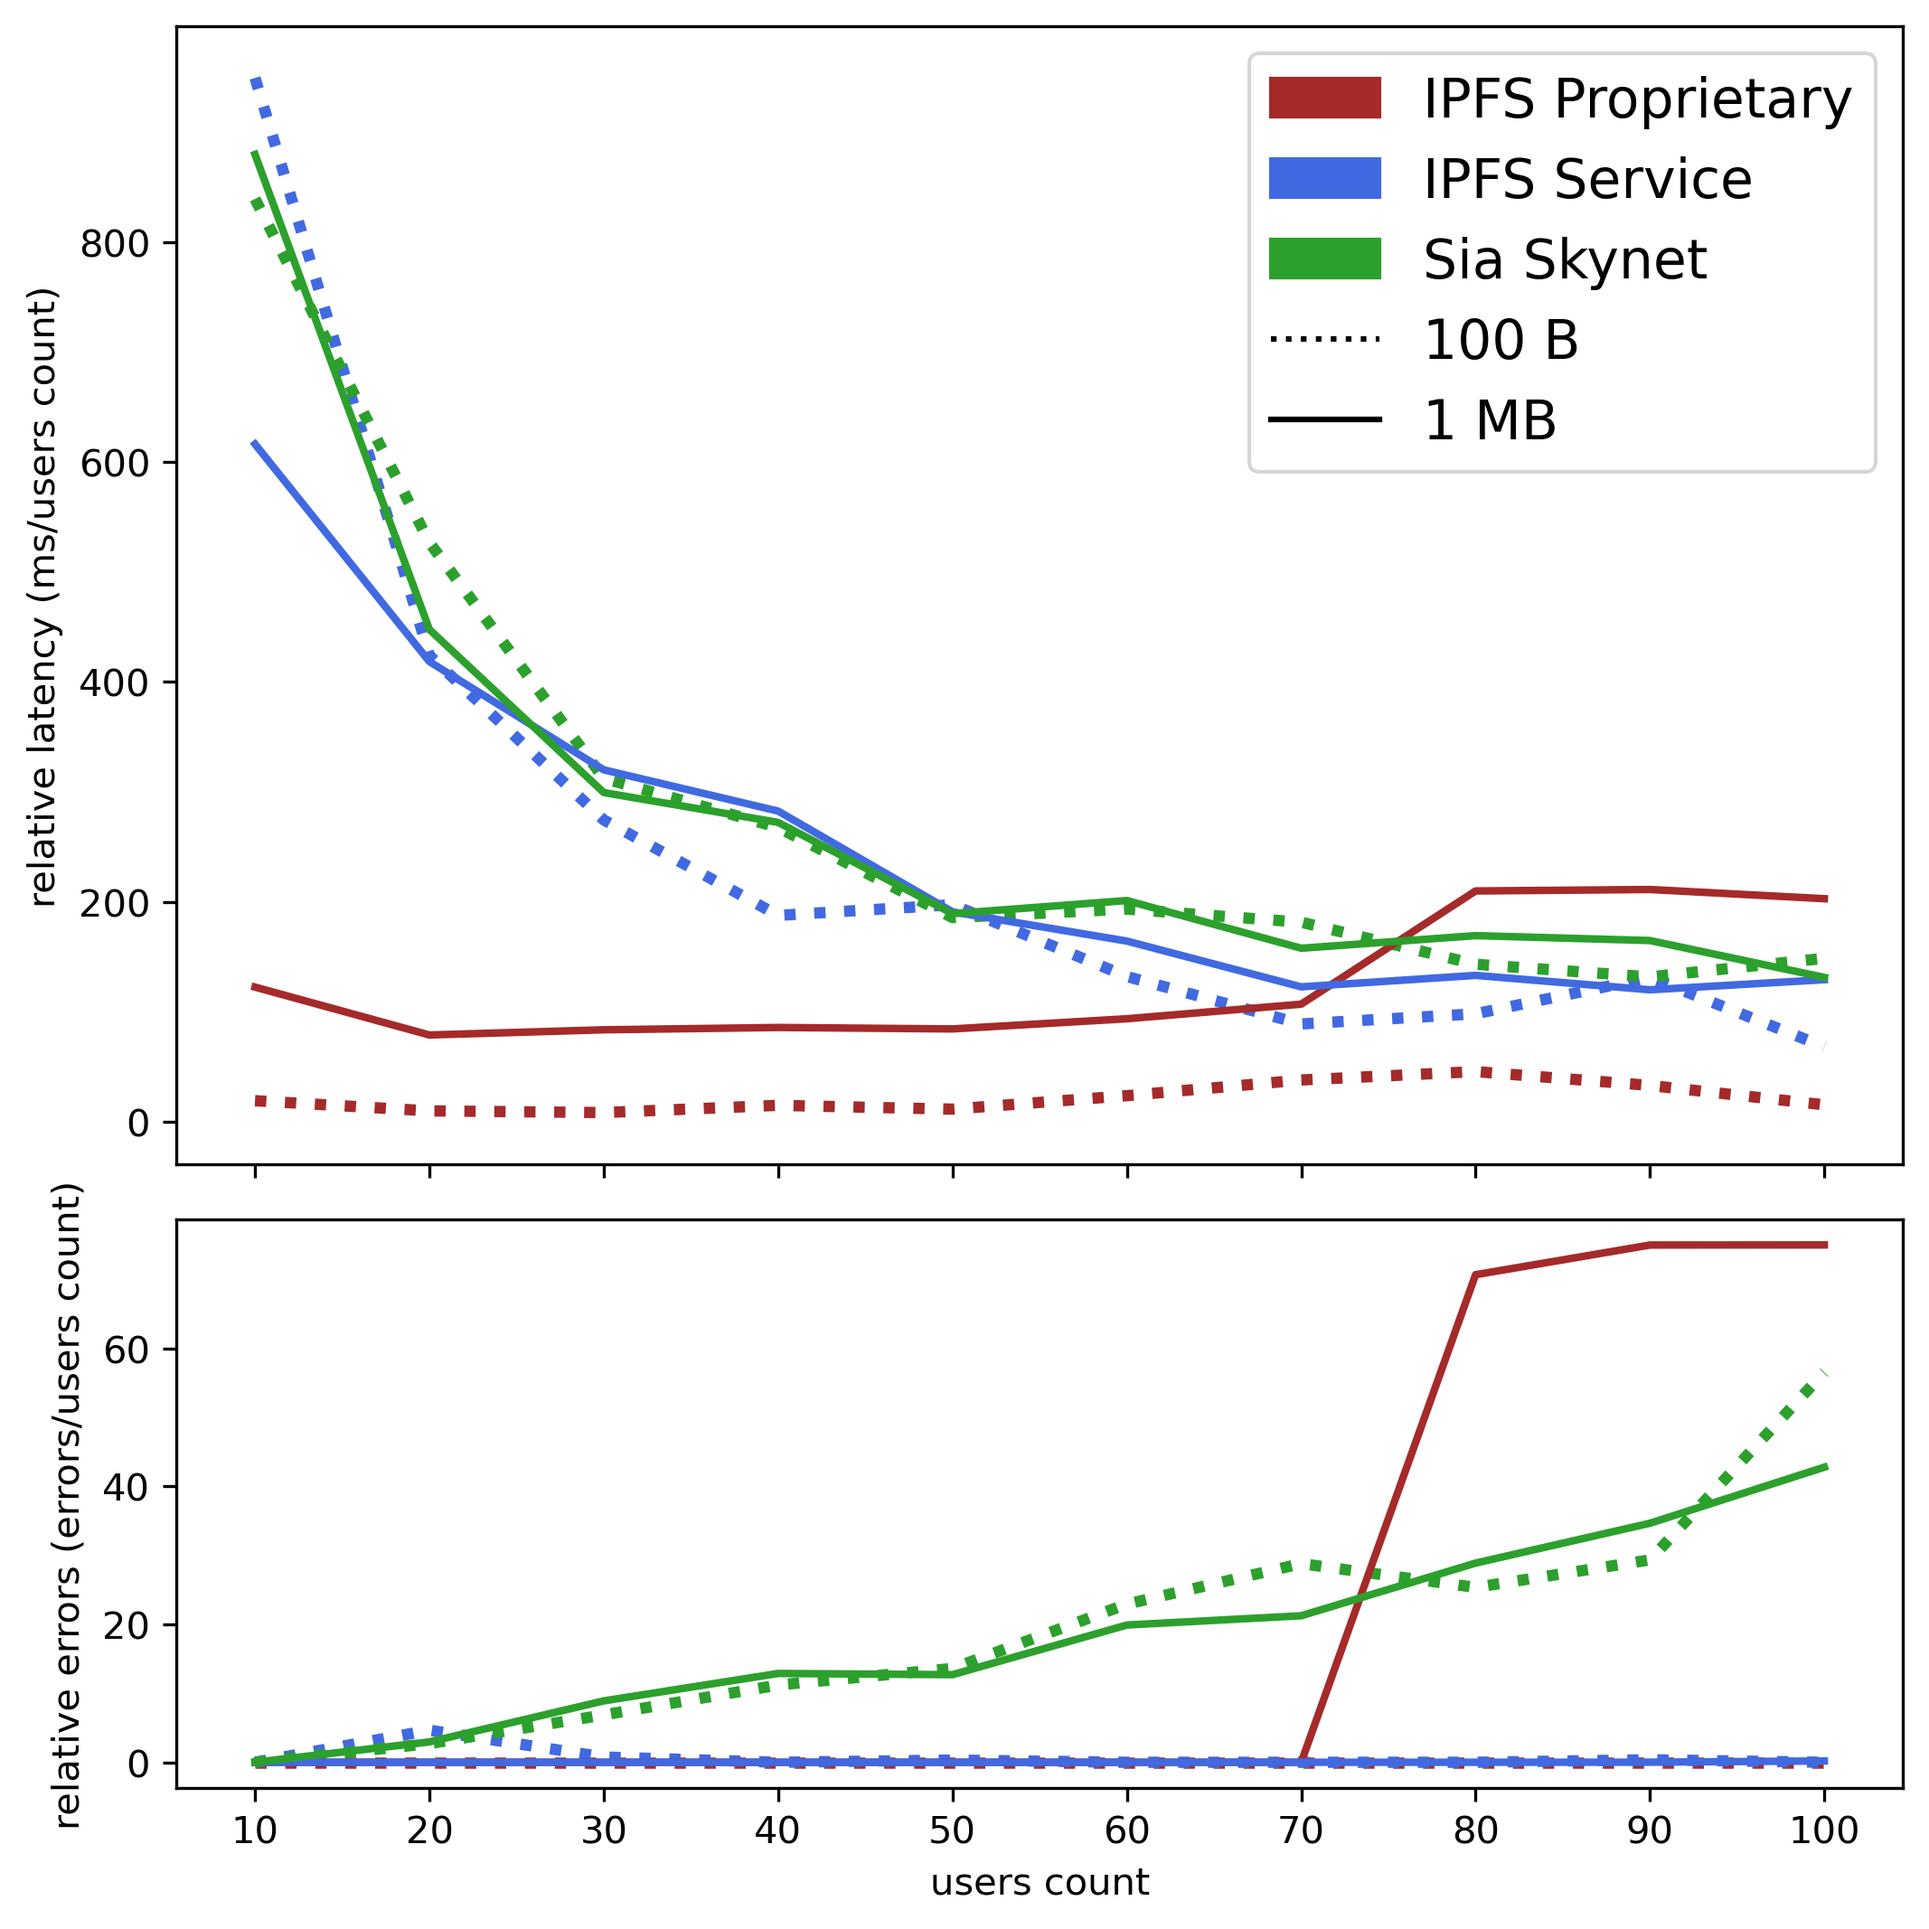
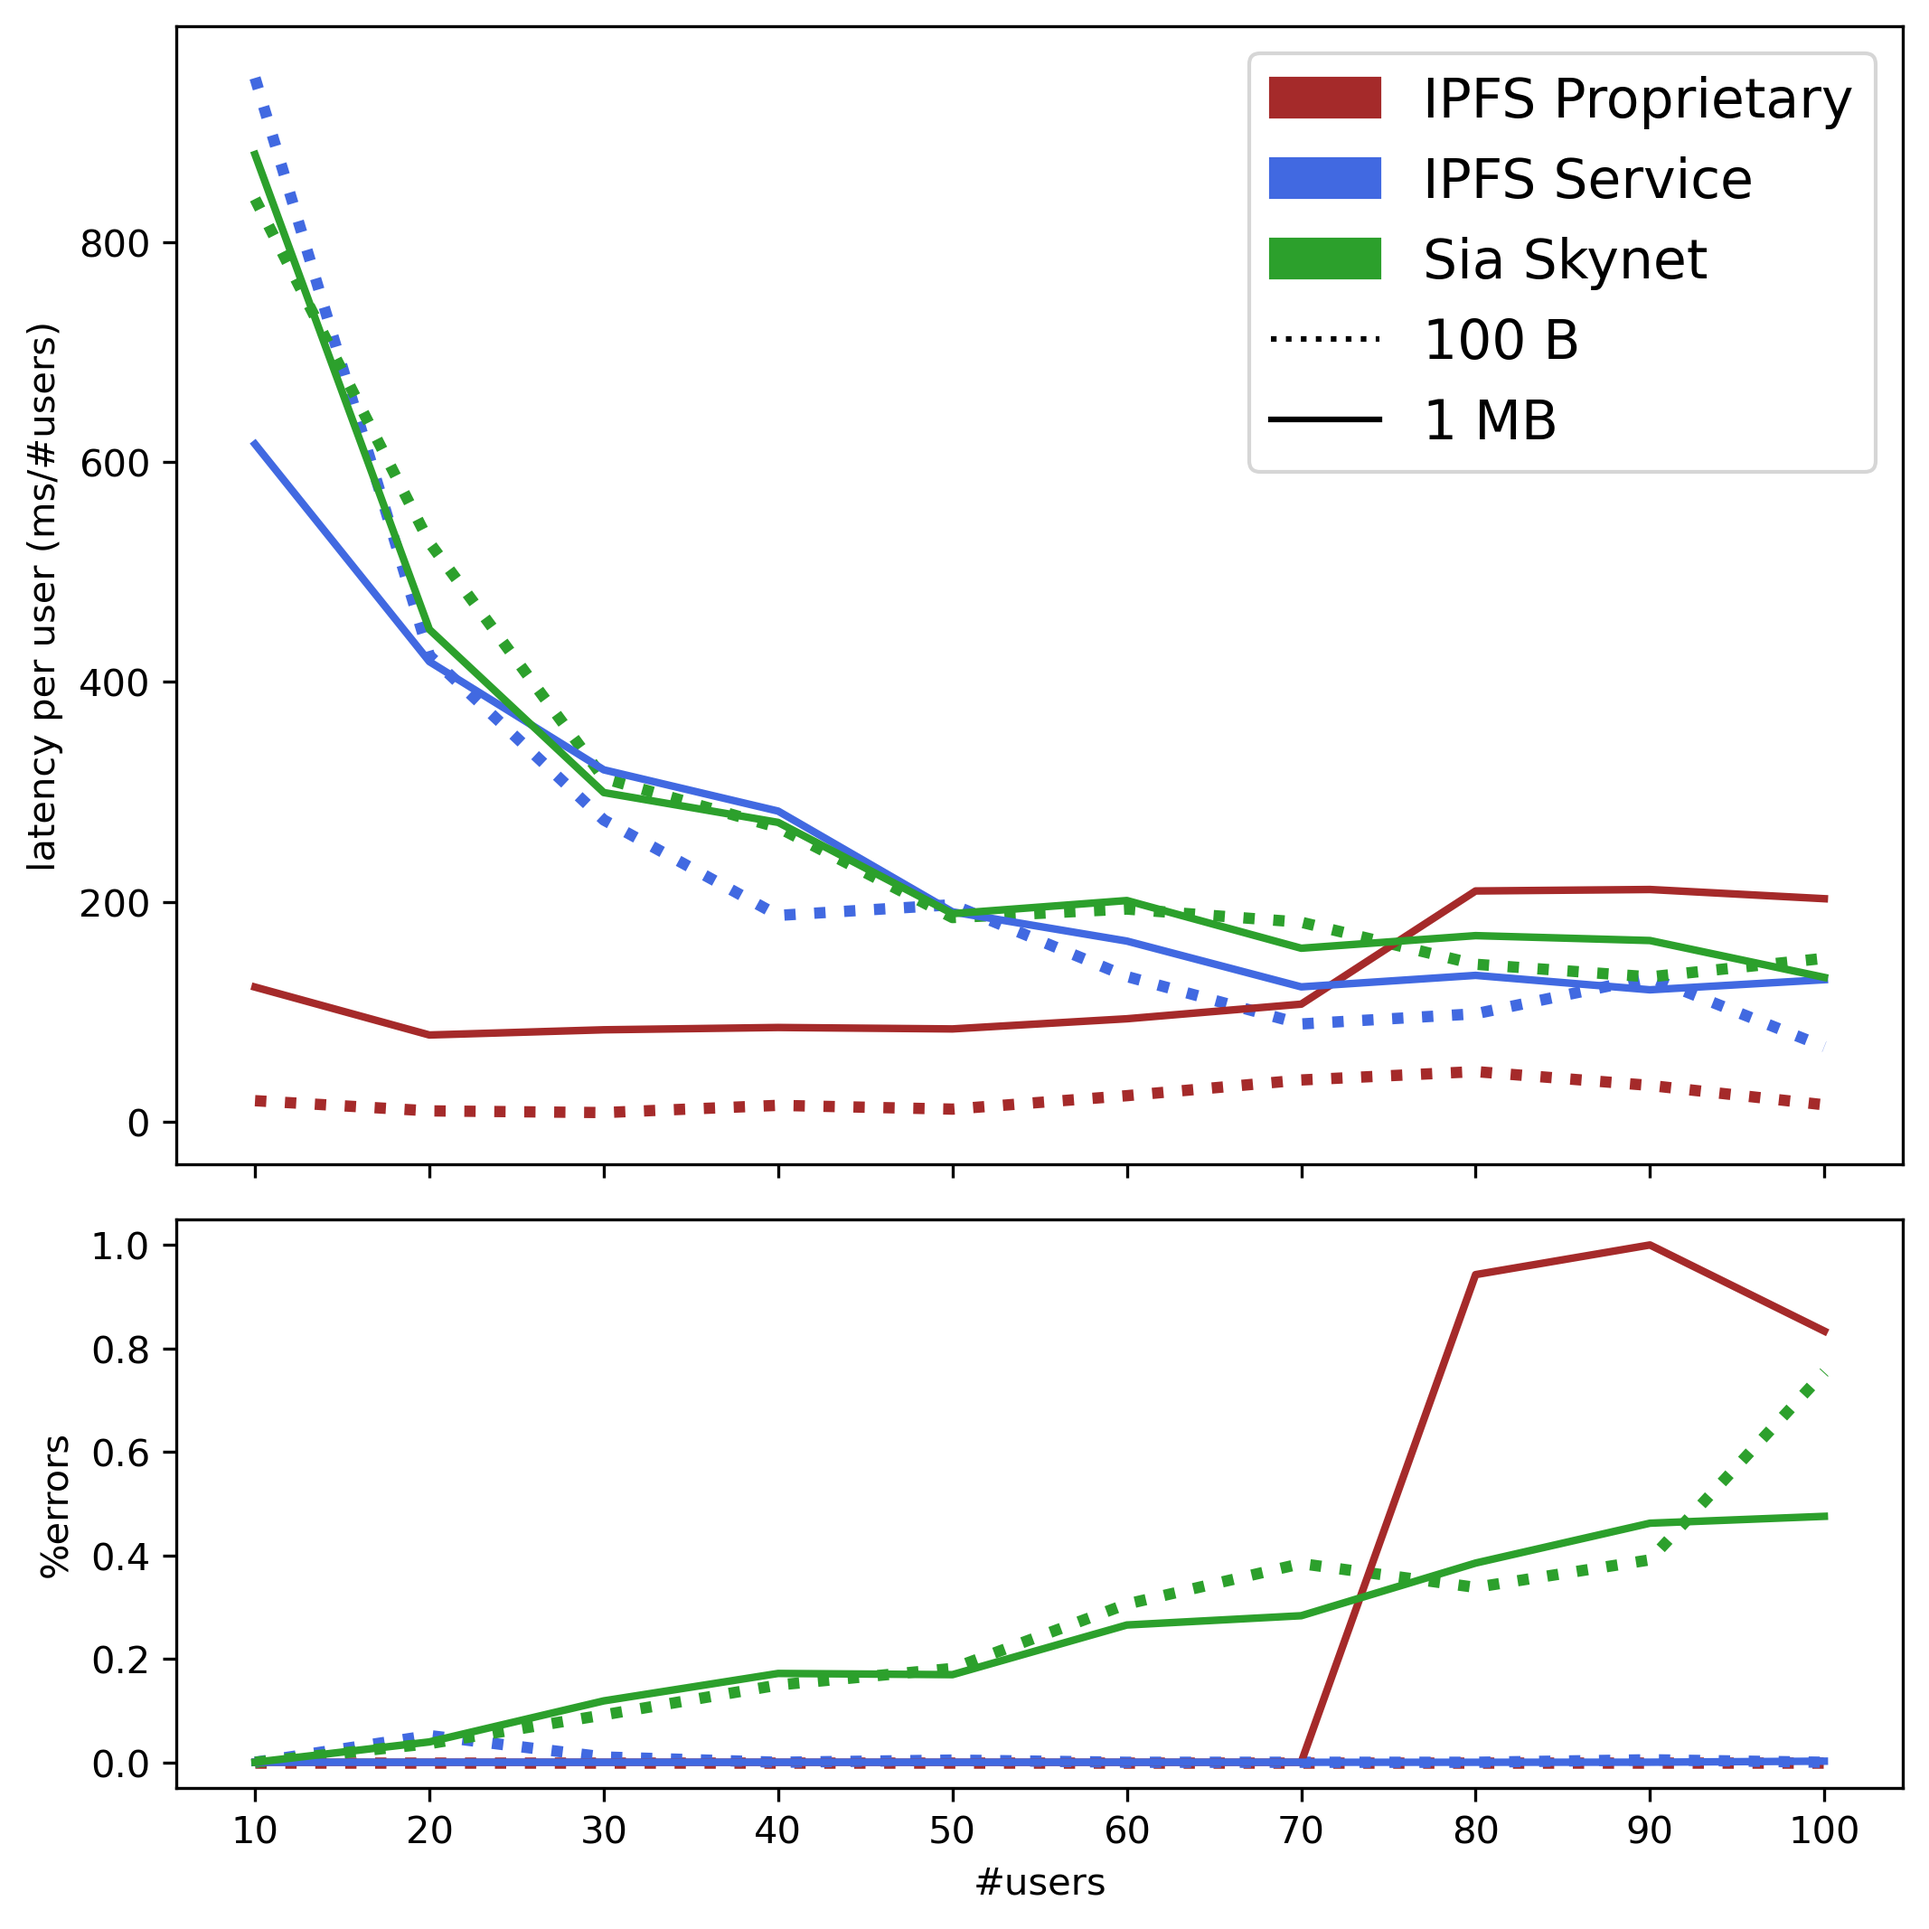
small fixes

diff --git a/statistic.py b/statistic.py
@@ -99,7 +99,8 @@ def plot(data, totNum, lstyl, lwid):
             tmp = np.array(usersNumber[1])
             avg[serviceTypeNum][usersNumberNum] = round(np.mean(tmp), 2)
             #err[serviceTypeNum+usersNumberNum] = avg[usersNumberNum+serviceTypeNum] - confInt(tmp, .95)[0]
-            err[serviceTypeNum][usersNumberNum] = usersNumber[2]
+            err[serviceTypeNum][usersNumberNum] = usersNumber[2] / \
+                (usersNumber[2] + len(usersNumber[1]))
             usersNumberNum += 1
             if flag:
                 nmbrs.append(usersNumber[3])
@@ -115,11 +116,11 @@ def plot(data, totNum, lstyl, lwid):
     ax[0].plot(nmbrs, avg[2]/nmbrs, linestyle=lstyl,
                linewidth=lwid, color=colors[2])
 
-    ax[1].plot(nmbrs, err[0]/nmbrs, linestyle=lstyl,
+    ax[1].plot(nmbrs, err[0], linestyle=lstyl,
                linewidth=lwid, color=colors[0])
-    ax[1].plot(nmbrs, err[1]/nmbrs, linestyle=lstyl,
+    ax[1].plot(nmbrs, err[1], linestyle=lstyl,
                linewidth=lwid, color=colors[1])
-    ax[1].plot(nmbrs, err[2]/nmbrs, linestyle=lstyl,
+    ax[1].plot(nmbrs, err[2], linestyle=lstyl,
                linewidth=lwid, color=colors[2])
 
     ax[1].set_xticks(np.arange(10, 101, 10))
@@ -127,9 +128,9 @@ def plot(data, totNum, lstyl, lwid):
     # ax[0].set_xscale('log')
     # ax[0].set_yscale('log')
 
-    ax[0].set_ylabel('relative latency (ms/users count)')
-    ax[1].set_ylabel('relative errors (errors/users count)')
-    ax[1].set_xlabel('users count')
+    ax[0].set_ylabel('latency per user (ms/#users)')
+    ax[1].set_ylabel('%errors')
+    ax[1].set_xlabel('#users')
 
     patch1 = mpatches.Patch(color=colors[0], label='IPFS Proprietary')
     patch2 = mpatches.Patch(color=colors[1], label='IPFS Service')
